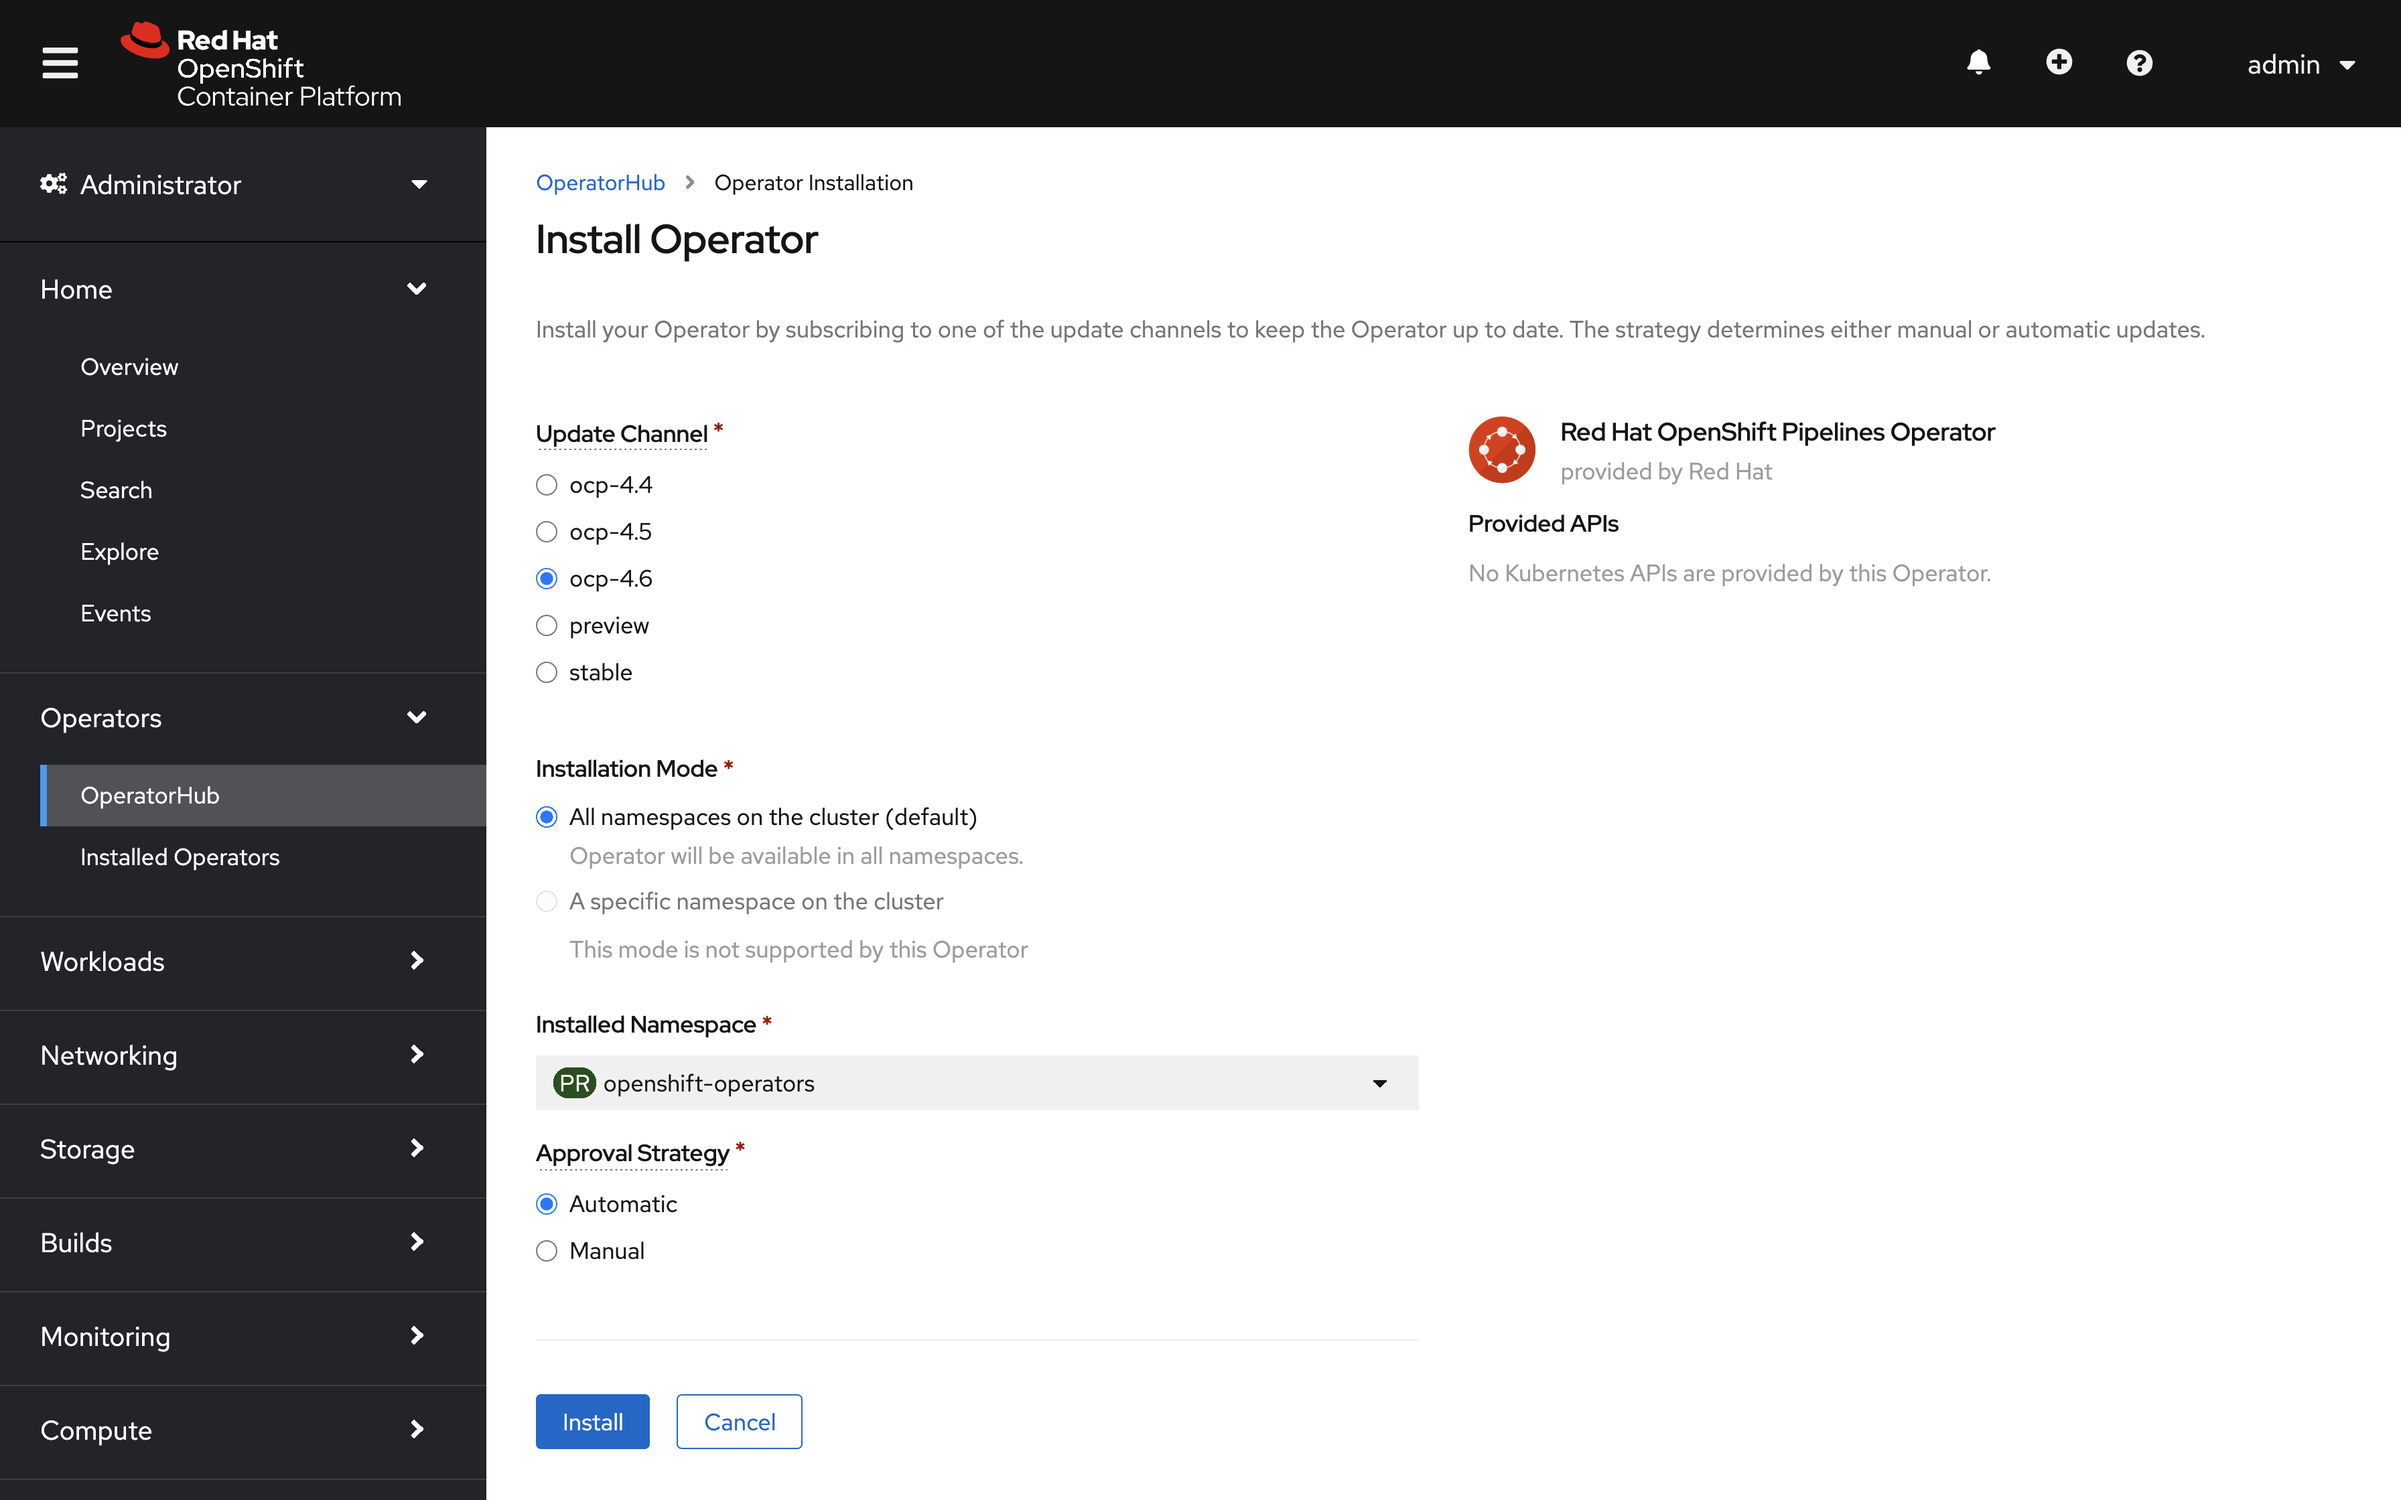
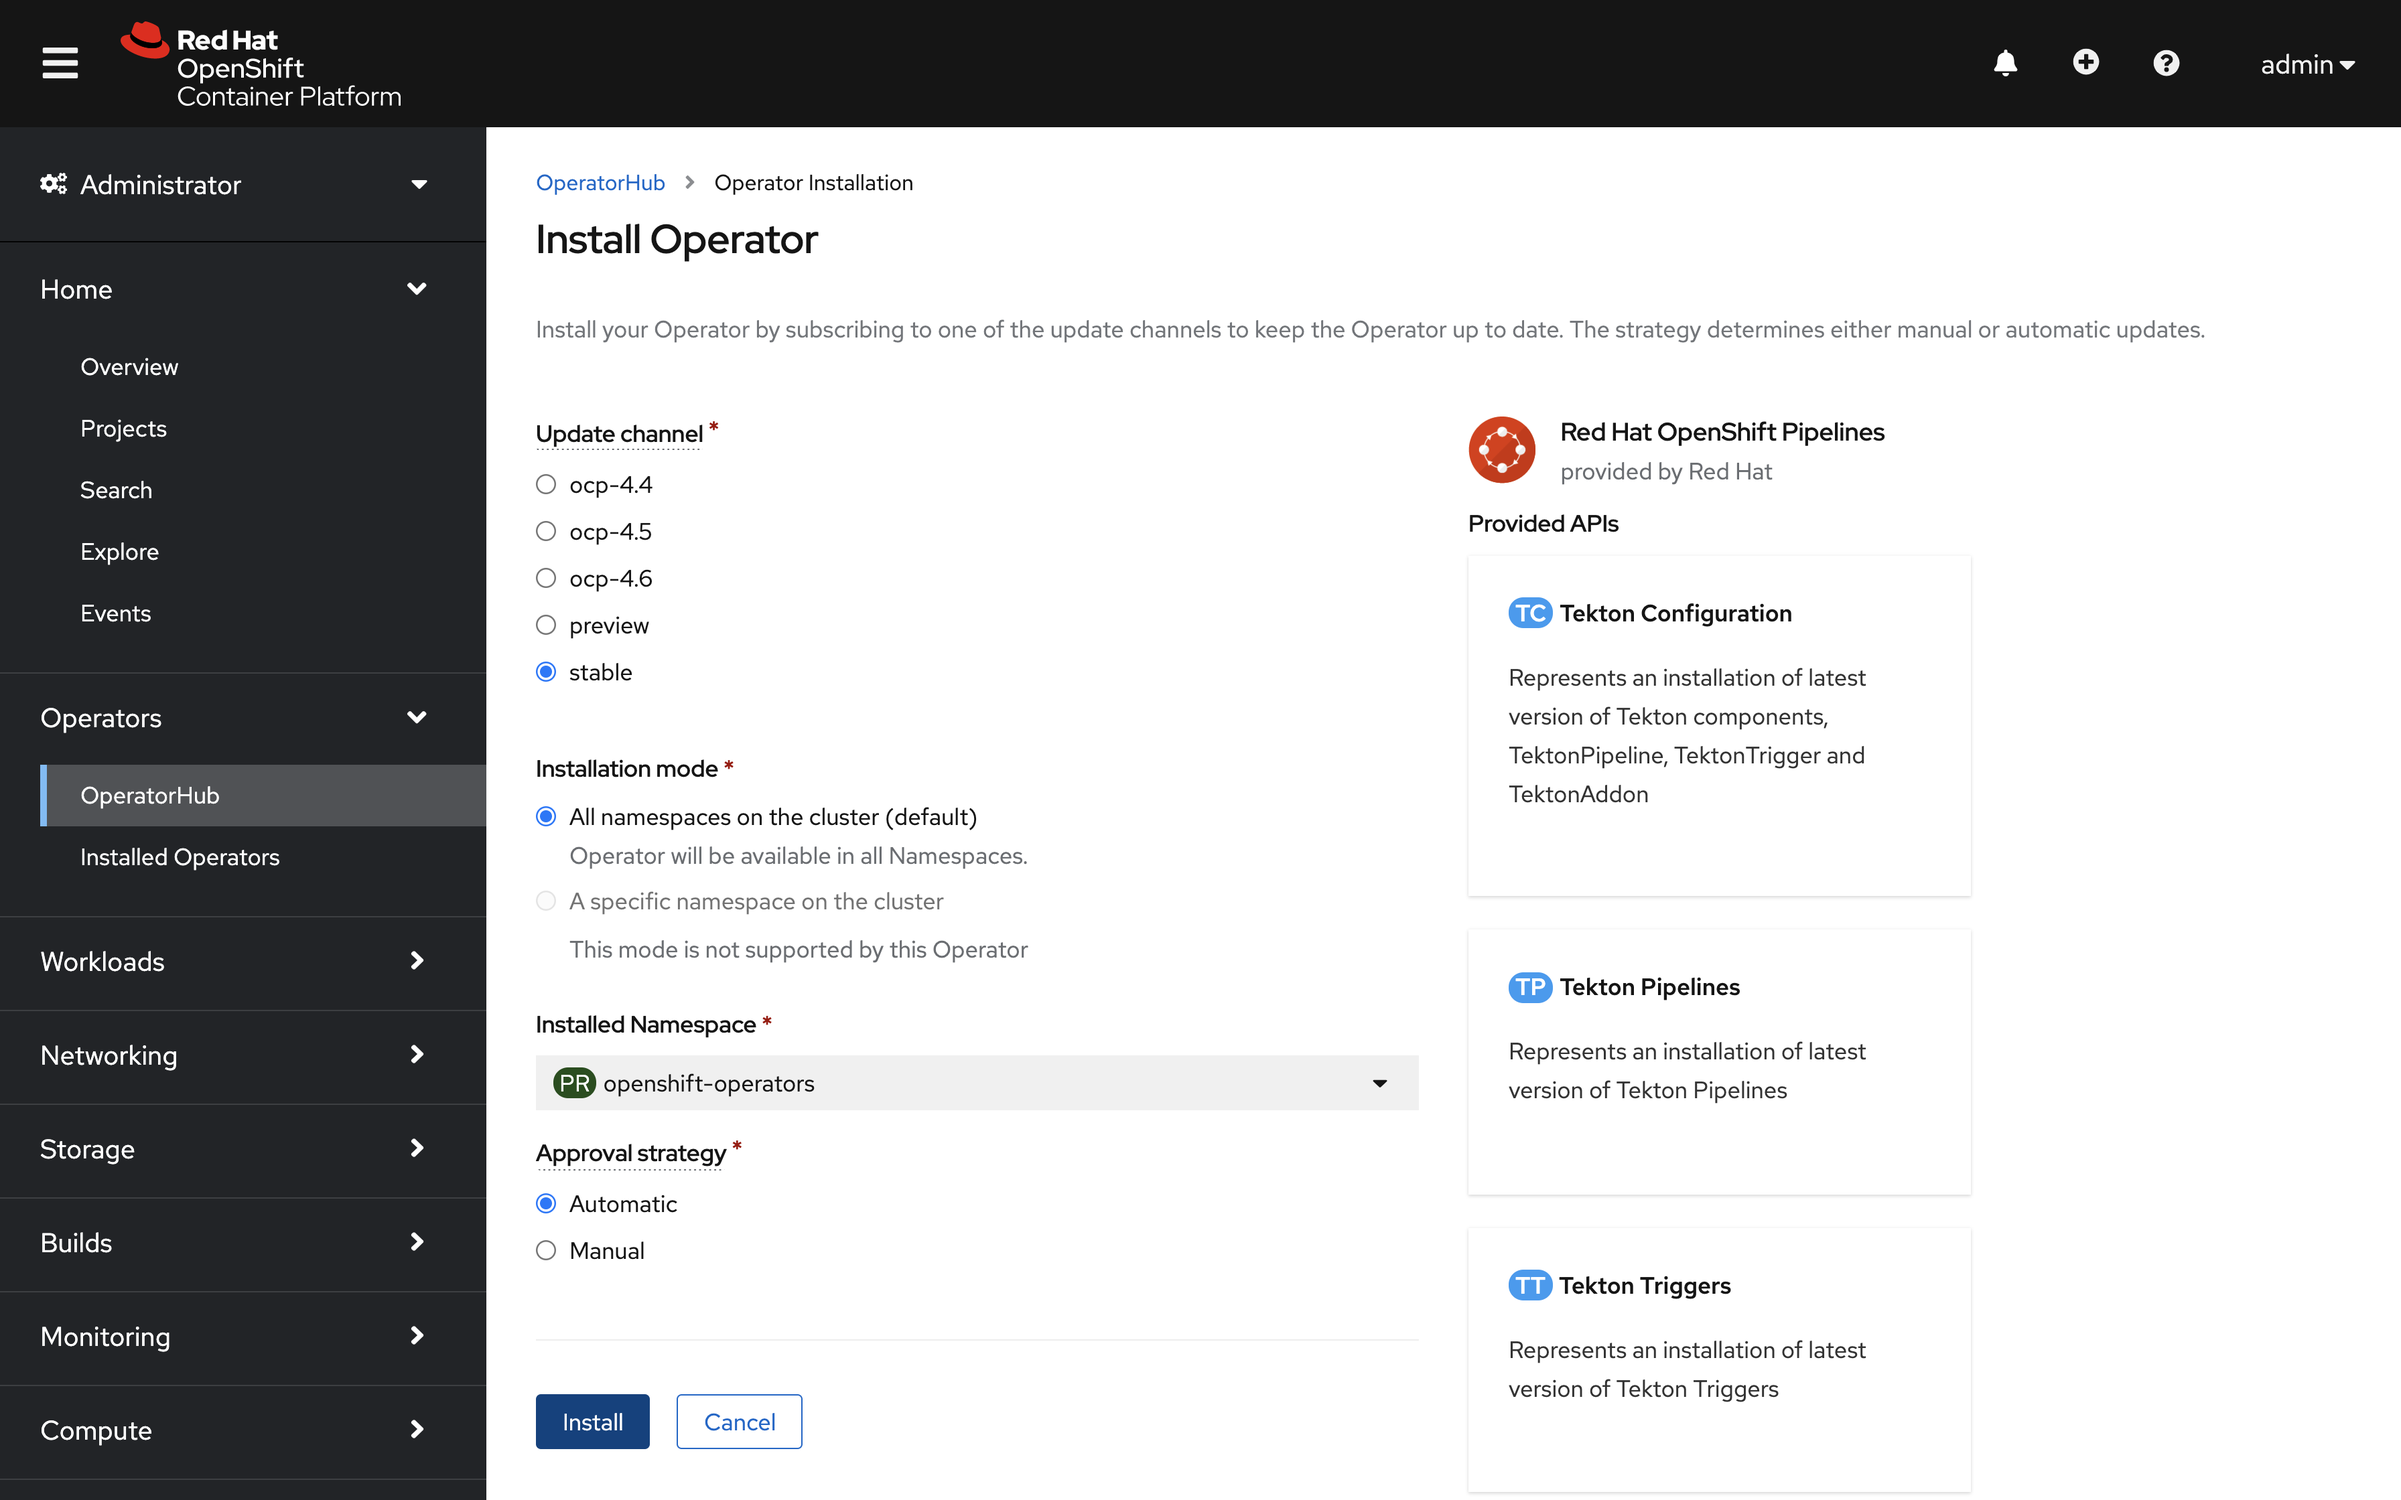
pipelines to 4.7

diff --git a/middleware/pipelines/01install-op.md b/middleware/pipelines/01install-op.md
@@ -44,7 +44,7 @@ metadata:
   name: openshift-pipelines-operator
   namespace: openshift-operators 
 spec:
-  channel: ocp-4.6
+  channel: stable
   name: openshift-pipelines-operator-rh
   source: redhat-operators
   sourceNamespace: openshift-marketplace
